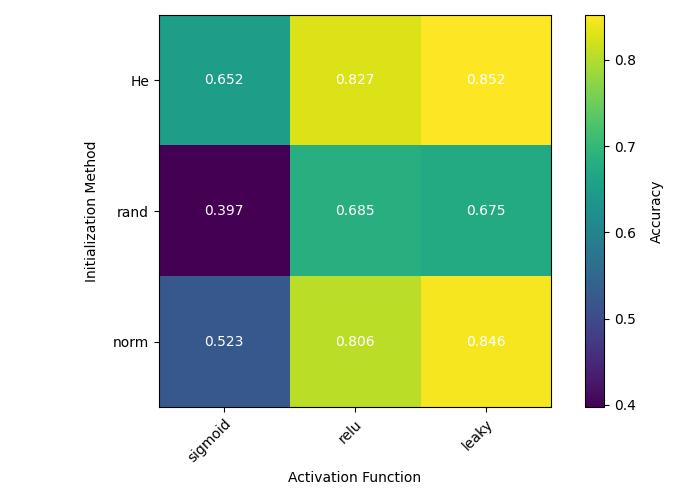
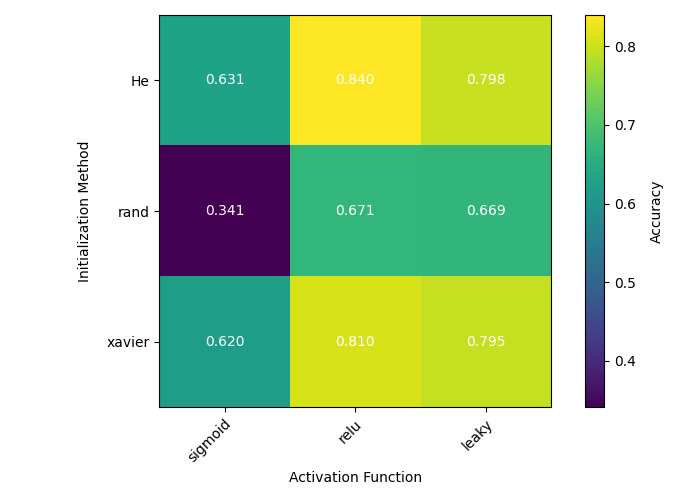
norm -> xavier

diff --git a/hyper.py b/hyper.py
@@ -126,7 +126,7 @@ def optim_hl():
             hidden_nodes=i,
             output_nodes=10,
             act="relu",
-            initialization="norm",
+            initialization="xavier",
             labels=None,
         )
         net.train(
@@ -156,7 +156,7 @@ def optim_lr_hl():
                 hidden_nodes=i,
                 output_nodes=10,
                 act="relu",
-                initialization="norm",
+                initialization="xavier",
                 labels=None,
             )
             net.train(
@@ -180,7 +180,7 @@ def optim_lr_hl():
 def optim_act_init():
     hyper = []
     act_fns = ["sigmoid", "relu", "leaky"]
-    init_methods = ["norm", "rand", "He"]
+    init_methods = ["xavier", "rand", "He"]
     for idx, fn in enumerate(act_fns):
         for jdx, init in enumerate(init_methods):
             net = nn(
@@ -217,7 +217,7 @@ def optim_lr():
             hidden_nodes=10,
             output_nodes=10,
             act="relu",
-            initialization="norm",
+            initialization="xavier",
             labels=None,
         )
         net.train(
@@ -299,7 +299,7 @@ def optim_e():
 
 def optim_init():
     hyper = []
-    init_methods = ["norm", "rand", "He"]
+    init_methods = ["xavier", "rand", "He"]
     for idx, init in enumerate(init_methods):
         net = nn(
             input_nodes=784,
@@ -365,7 +365,7 @@ processor = DataProcessor("./data/numeric-mnist.csv")
 processor.split_data()
 processor.get_features_and_labels()
 
-init_methods = ["norm", "rand", "He"]
+init_methods = ["xavier", "rand", "He"]
 act_fns = ["sigmoid", "relu", "leaky"]
 
 # optim_hl()

diff --git a/net/nn.py b/net/nn.py
@@ -33,7 +33,7 @@ class nn:
             raise ValueError("Invalid activation function")
 
     def initialize_parameters(self):
-        if self.initialization == "norm":
+        if self.initialization == "xavier":
             self.W1 = np.random.normal(
                 size=(self.hidden_nodes, self.input_nodes)
             ) * np.sqrt(1.0 / self.input_nodes)

diff --git a/main.py b/main.py
@@ -40,7 +40,7 @@ net = nn(
     hidden_nodes=25,
     output_nodes=10,
     act="relu",
-    initialization="norm",
+    initialization="xavier",
     labels=numeric_labels,
 )
 
